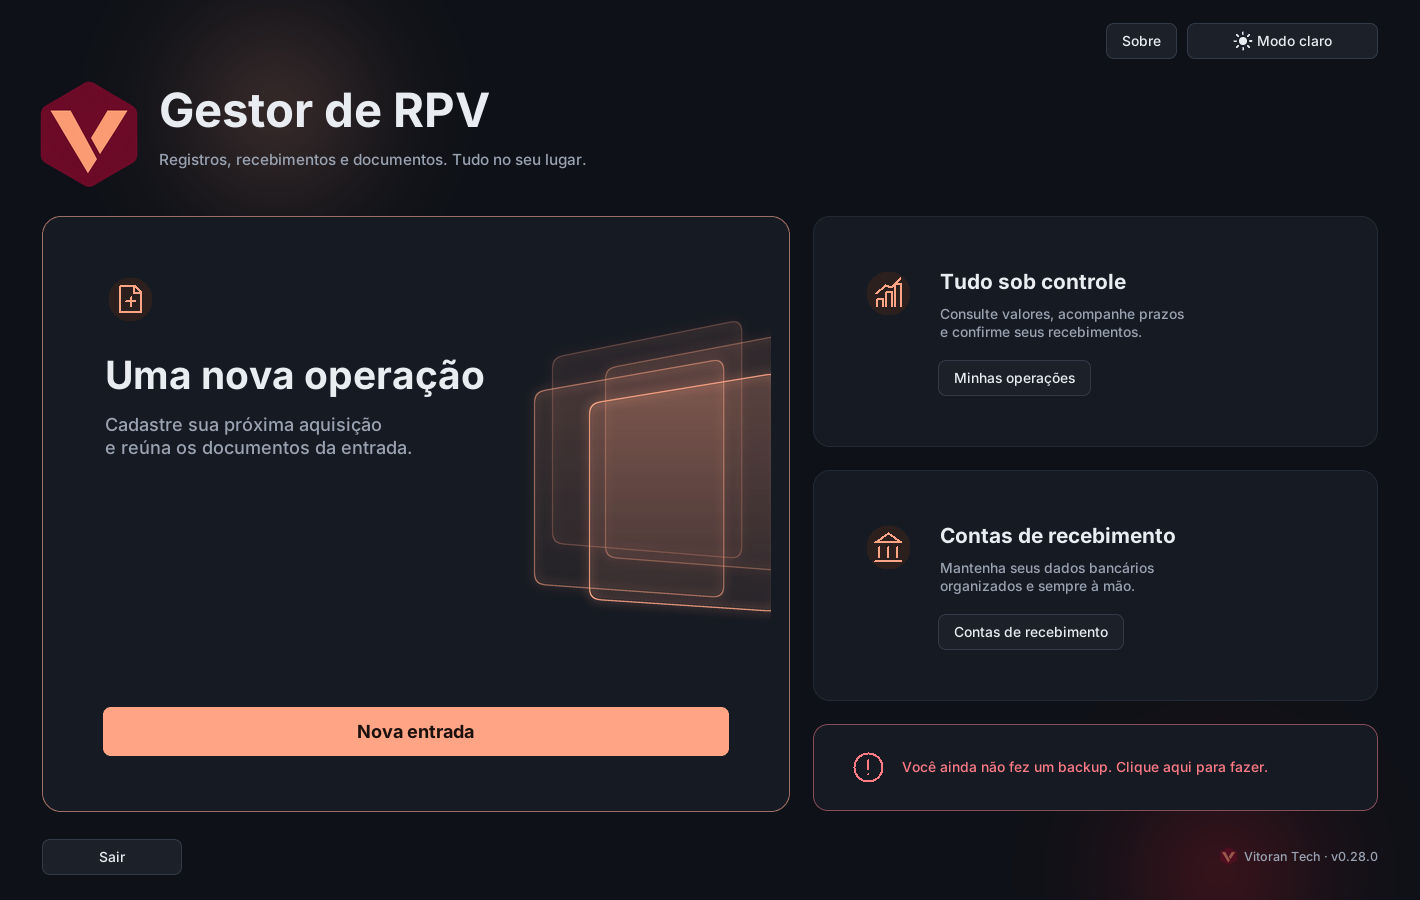
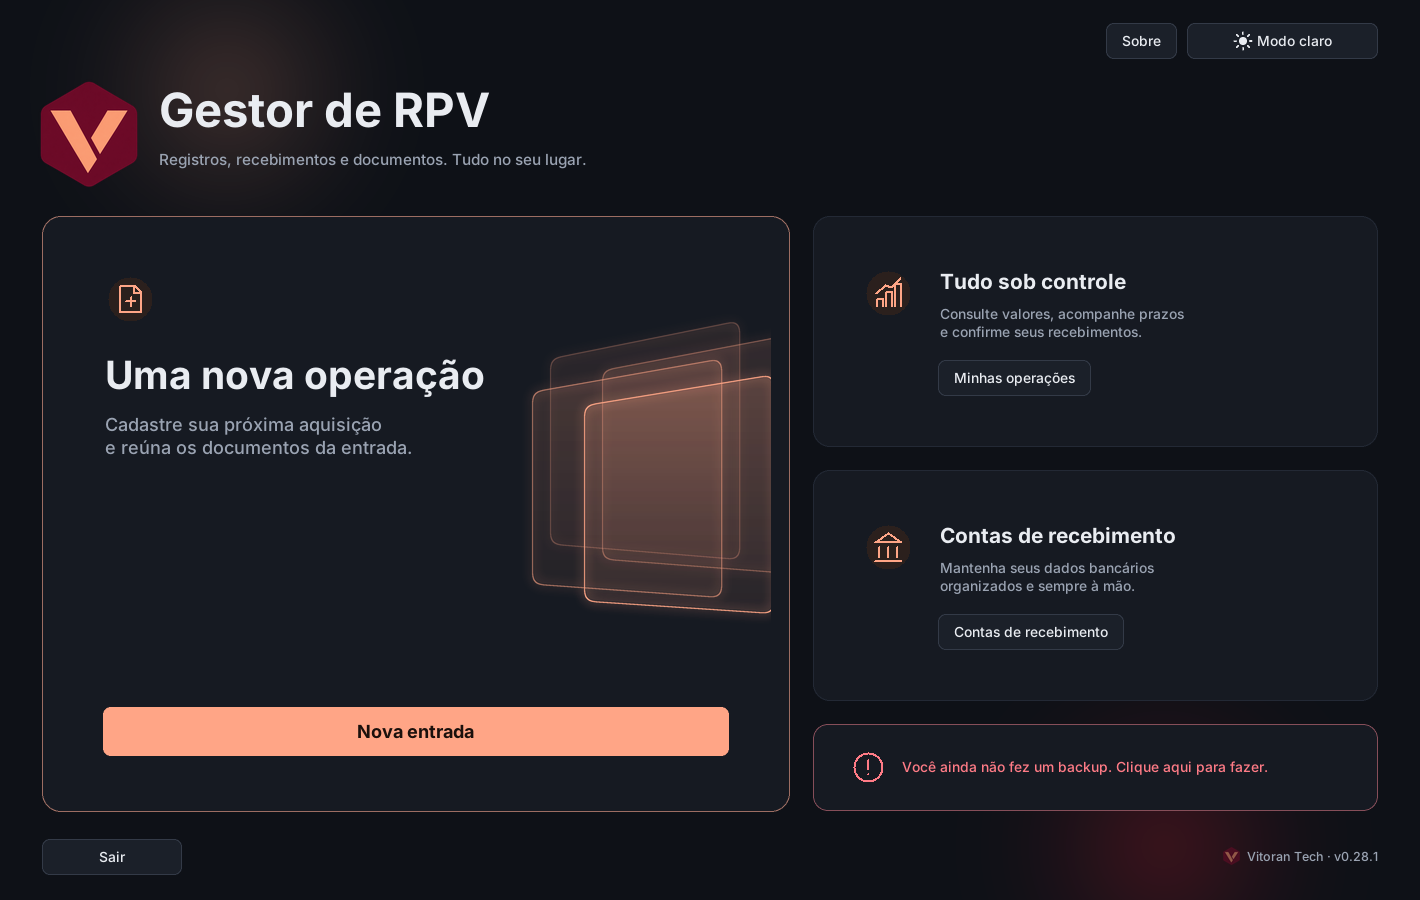
Tela inicial com tamanho máximo centralizado e animação parada após a entrada (0.28.1)
Claude-Session: https://claude.ai/code/session_01QEgXim2PKycGfoVAPPJLFG

Changed region(s): [[0.4028, 0.3733, 0.5268, 0.6844], [0.3718, 0.4044, 0.4648, 0.6222], [0.8676, 0.9333, 0.9606, 0.9644]]

diff --git a/arte_inicio.py b/arte_inicio.py
@@ -4,11 +4,10 @@ As placas e as luzes são imagens PNG com transparência (recursos/vidro-*.png e
 scripts/gerar_arte_vidro.py). O Canvas do Tk sobrepõe essas imagens respeitando o canal alfa, então a
 translucidez é real, sem depender de transparência da janela.
 
-Ao abrir, as placas entram em sequência (cerca de 4 s); depois flutuam devagar, poucos pixels, sem parar.
-As luzes de fundo derivam em ciclos longos. Um único relógio move tudo e fica em pausa quando a tela
-inicial não está visível; trocar de tema só troca as imagens, sem reiniciar o movimento.
+Ao abrir, as placas entram em sequência (cerca de 4 s) e depois ficam paradas. As luzes de fundo são fixas.
+O relógio da entrada fica em pausa quando a tela inicial não está visível e para de vez quando a entrada
+termina; trocar de tema só troca as imagens, sem reiniciar a animação.
 """
-import math
 import time
 import tkinter as tk
 
@@ -23,18 +22,10 @@ INTERVALO = 0.38      # Segundos entre o início de uma placa e o da seguinte.
 DURACAO = 2.1         # Segundos de entrada de cada placa.
 ATRASO_BRILHO = 0.5   # A borda acende depois que o vidro já começou a aparecer.
 DESLOCAMENTO = (60, 18)  # Pixels de onde cada placa parte, à direita e abaixo da posição final.
-# Flutuação depois da entrada: amplitude (x, y) em pixels e período (x, y) em segundos, por placa.
-FLUTUACAO = (((3, 4), (9.0, 11.0)), ((4, 3), (10.5, 8.0)), ((3, 5), (8.5, 12.5)), ((5, 4), (11.5, 9.5)))
 LUZ = 520             # Lado de cada mancha de luz.
-# Luzes de fundo: centro em frações da tela, amplitude da deriva em pixels e período em segundos.
-LUZES = (((0.16, 0.10), (50, 30), (37.0, 29.0)), ((0.82, 0.94), (60, 34), (43.0, 33.0)))
-# Ritmo de cada animação, em milissegundos: a entrada das placas é fluida; a flutuação e a deriva das luzes,
-# lentíssimas, avançam menos de 1 px por quadro e não precisam de mais quadros. Luzes grandes custam caro
-# para redesenhar, então só mudam de lugar 5 vezes por segundo.
-QUADRO_ENTRADA_MS = 40
-QUADRO_FLUTUACAO_MS = 80
-QUADRO_LUZES_MS = 200
-QUADRO_MS = 40        # Batida do relógio: cada animação decide se é a sua vez.
+# Luzes de fundo: centro de cada mancha, em frações da tela.
+LUZES = ((0.16, 0.10), (0.82, 0.94))
+QUADRO_MS = 40        # Um quadro a cada 40 ms durante a entrada.
 PAUSA_MS = 400        # Fora da tela inicial, só confere de vez em quando se ela voltou.
 
 
@@ -80,13 +71,8 @@ def imagens_luz(raiz, modo):
     return cache[modo]
 
 
-def flutuacao(indice, segundos):
-    (ax, ay), (px, py) = FLUTUACAO[indice]
-    return ax * math.sin(2 * math.pi * segundos / px), ay * math.sin(2 * math.pi * segundos / py + 1.3)
-
-
 class ArteVidro(tk.Canvas):
-    """Placas de vidro em leque: entrada em sequência e, depois, flutuação contínua e mínima."""
+    """Placas de vidro em leque: entrada em sequência e, depois, paradas na posição final."""
 
     def __init__(self, pai):
         super().__init__(pai, highlightthickness=0, bd=0)
@@ -104,9 +90,6 @@ class ArteVidro(tk.Canvas):
         self.aplicado.clear()
         self.desenhar()
 
-    def intervalo(self):
-        return QUADRO_ENTRADA_MS if self.tempo() < duracao_total() else QUADRO_FLUTUACAO_MS
-
     def animar(self):
         """Começa a entrada das placas; chamar de novo não reinicia."""
         if self.inicio is None:
@@ -115,12 +98,14 @@ class ArteVidro(tk.Canvas):
     def tempo(self):
         return 0.0 if self.inicio is None else time.monotonic() - self.inicio
 
+    def terminou(self):
+        return self.inicio is not None and self.tempo() >= duracao_total()
+
     def desenhar(self):
         largura, altura = self.winfo_width(), self.winfo_height()
         if largura < 20 or altura < 20:
             return
         agora = self.tempo()
-        depois = max(0.0, agora - duracao_total())
         conjunto = (CELULA[0] + max(x for x, _ in POSICOES), CELULA[1] + max(y for _, y in POSICOES))
         base_x = max(0, (largura - conjunto[0]) // 2)
         base_y = (altura - conjunto[1]) // 2
@@ -129,9 +114,8 @@ class ArteVidro(tk.Canvas):
             acender = suavizar((agora - indice * INTERVALO - ATRASO_BRILHO) / DURACAO)
             # Placas do fundo se deslocam menos, reforçando a sensação de profundidade.
             profundidade = 0.55 + 0.45 * indice / (len(POSICOES) - 1)
-            ox, oy = flutuacao(indice, depois)
-            x = base_x + fx + DESLOCAMENTO[0] * profundidade * (1 - entrada) + ox
-            y = base_y + fy + DESLOCAMENTO[1] * profundidade * (1 - entrada) + oy
+            x = base_x + fx + DESLOCAMENTO[0] * profundidade * (1 - entrada)
+            y = base_y + fy + DESLOCAMENTO[1] * profundidade * (1 - entrada)
             for item, camada, progresso in ((vidro, 0, entrada), (brilho, 1, acender)):
                 coluna = nivel(progresso)
                 estado = (round(x), round(y), coluna)
@@ -146,18 +130,14 @@ class ArteVidro(tk.Canvas):
 
 
 class LuzesFundo:
-    """Manchas de luz translúcidas no Canvas da tela inicial, abaixo de todo o resto, em deriva lenta."""
+    """Manchas de luz translúcidas e fixas no Canvas da tela inicial, abaixo de todo o resto."""
 
     def __init__(self, canvas):
         self.canvas = canvas
-        self.inicio = time.monotonic()
         self.itens = [canvas.create_image(0, 0, anchor='center', tags='luz') for _ in LUZES]
         canvas.tag_lower('luz')
-        self.aplicado = {}
+        self.area = None
         self.atualizar_tema()
-
-    def intervalo(self):
-        return QUADRO_LUZES_MS
 
     def atualizar_tema(self):
         imagens = imagens_luz(self.canvas._root(), modo_atual())
@@ -165,26 +145,21 @@ class LuzesFundo:
             self.canvas.itemconfigure(item, image=imagem)
         self.desenhar()
 
-    def desenhar(self):
-        largura, altura = self.canvas.winfo_width(), self.canvas.winfo_height()
-        segundos = time.monotonic() - self.inicio
-        for item, ((fx, fy), (ax, ay), (px, py)) in zip(self.itens, LUZES):
-            x = fx * largura + ax * math.sin(2 * math.pi * segundos / px)
-            y = fy * altura + ay * math.sin(2 * math.pi * segundos / py + 0.7)
-            posicao = (round(x), round(y))
-            if self.aplicado.get(item) != posicao:
-                self.aplicado[item] = posicao
-                self.canvas.coords(item, *posicao)
+    def desenhar(self, area=None):
+        """Posiciona as luzes na área (x, y, largura, altura) da composição; sem área, no Canvas inteiro."""
+        self.area = area or self.area or (0, 0, self.canvas.winfo_width(), self.canvas.winfo_height())
+        x, y, largura, altura = self.area
+        for item, (fx, fy) in zip(self.itens, LUZES):
+            self.canvas.coords(item, round(x + fx * largura), round(y + fy * altura))
 
 
 class Relogio:
-    """Um único laço de animação para a tela inicial, em pausa quando ela não está à vista."""
+    """Laço da animação de entrada: em pausa fora da tela inicial e encerrado quando tudo termina."""
 
     def __init__(self, canvas, *animados):
         self.canvas = canvas
         self.animados = animados
         self.agendamento = None
-        self.proximos = {}  # Quando cada animação deve desenhar de novo (relógio monotônico).
         canvas.bind('<Destroy>', lambda e: self.parar() if e.widget is canvas else None, add='+')
 
     def iniciar(self):
@@ -202,10 +177,9 @@ class Relogio:
             return
         visivel = self.canvas.winfo_viewable() and self.canvas.winfo_toplevel().state() != 'iconic'
         if visivel:
-            agora = time.monotonic()
             for animado in self.animados:
-                if agora >= self.proximos.get(id(animado), 0):
-                    animado.desenhar()
-                    intervalo = getattr(animado, 'intervalo', lambda: QUADRO_MS)()
-                    self.proximos[id(animado)] = agora + intervalo / 1000 - 0.005
+                animado.desenhar()
+            # Depois do último quadro, tudo fica parado: o laço não volta a rodar.
+            if all(getattr(animado, 'terminou', lambda: False)() for animado in self.animados):
+                return
         self.agendamento = self.canvas.after(QUADRO_MS if visivel else PAUSA_MS, self.quadro)

diff --git a/test_interface.py b/test_interface.py
@@ -1315,6 +1315,16 @@ class TestInterface(unittest.TestCase):
         self.assertTrue(self.programa.layout_largo_inicio)
         largura_util = tela.winfo_width() - 2 * 40
         self.assertAlmostEqual(entrada.winfo_width() + 2 * 18, largura_util * 0.56, delta=8)
+        # Em telas maiores, a composição não estica: mantém o tamanho e fica centralizada.
+        medidas = []
+        for geometria in ('1700x1100', '2000x1200'):
+            self.root.geometry(geometria)
+            self.root.update()
+            self.root.update()
+            medidas.append((entrada.winfo_width(), entrada.winfo_height(),
+                            entrada.winfo_x() - (tela.winfo_width() - 1420) // 2,
+                            entrada.winfo_y() - (tela.winfo_height() - 900) // 2))
+        self.assertEqual(medidas[0], medidas[1])
         self.assertLess(entrada.winfo_x() + entrada.winfo_width(), historico.winfo_x())
         self.assertEqual(historico.winfo_x(), contas.winfo_x())
         self.assertLess(historico.winfo_y() + historico.winfo_height(), contas.winfo_y())
@@ -1489,7 +1499,7 @@ class TestInterface(unittest.TestCase):
         self.assertEqual((tela.winfo_width(), tela.winfo_height()), (600, 450))
         tela.destroy()
 
-    def test_arte_entra_em_quatro_segundos_e_depois_flutua_sem_parar(self):
+    def test_arte_entra_em_quatro_segundos_e_depois_fica_parada(self):
         import time
         import arte_inicio
         self.root.geometry('1600x900')
@@ -1509,7 +1519,7 @@ class TestInterface(unittest.TestCase):
         arte.desenhar()
         estados = [arte.itemcget(vidro, 'state') for _brilho, vidro in arte.itens]
         self.assertEqual((estados[0], estados[-1]), ('normal', 'hidden'))
-        # Depois da entrada, todas ficam no nível máximo e seguem se movendo, poucos pixels.
+        # Depois da entrada, todas ficam no nível máximo e paradas.
         arte.inicio = time.monotonic() - arte_inicio.duracao_total() - 2.0
         arte.desenhar()
         finais = {arte.itemcget(item, 'image') for par in arte.itens for item in par}
@@ -1519,10 +1529,13 @@ class TestInterface(unittest.TestCase):
         arte.inicio -= 2.5
         arte.desenhar()
         depois = [arte.coords(vidro) for _brilho, vidro in arte.itens]
-        self.assertNotEqual(antes, depois)
-        self.assertTrue(all(abs(a - b) <= 12 for p, q in zip(antes, depois) for a, b in zip(p, q)))
-        # O relógio continua ativo enquanto a tela inicial está à vista.
-        self.assertIsNotNone(self.programa.relogio_inicio.agendamento)
+        self.assertEqual(antes, depois)
+        # Terminada a entrada, o relógio encerra o laço.
+        self.assertTrue(arte.terminou())
+        relogio = self.programa.relogio_inicio
+        relogio.parar()
+        relogio.quadro()
+        self.assertIsNone(relogio.agendamento)
         # Trocar de tema só troca as imagens: não reinicia a animação.
         inicio = arte.inicio
         self.programa.alternar_tema()
@@ -1554,15 +1567,13 @@ class TestInterface(unittest.TestCase):
         relogio.quadro()
         self.assertEqual(len(desenhos), 2)
 
-    def test_luzes_de_fundo_ficam_atras_de_tudo_e_derivam(self):
-        import time
+    def test_luzes_de_fundo_ficam_atras_de_tudo_e_paradas(self):
         tela = self.programa.inicio
         luzes = self.programa.luzes_inicio
         self.assertEqual(tela.find_all()[:len(luzes.itens)], tuple(luzes.itens))
         antes = [tela.coords(i) for i in luzes.itens]
-        luzes.inicio = time.monotonic() - 10
         luzes.desenhar()
-        self.assertNotEqual([tela.coords(i) for i in luzes.itens], antes)
+        self.assertEqual([tela.coords(i) for i in luzes.itens], antes)
 
     def test_arte_de_vidro_comeca_sozinha_ao_abrir(self):
         arte = self.programa.arte_inicio

diff --git a/tela_inicio.py b/tela_inicio.py
@@ -14,6 +14,9 @@ from tema import cores, modo_atual, PALETAS
 from versao import VERSAO
 from visual import Icone, _png_arredondado, px
 
+# Tamanho máximo da composição da tela inicial (em pixels a 100% de escala), nas proporções de referência.
+COMPOSICAO = (1420, 900)
+
 ATALHOS = (
     ('entrada', 'Uma nova operação', 'Cadastre sua próxima aquisição\ne reúna os documentos da entrada.', 'Nova entrada'),
     ('historico', 'Tudo sob controle', 'Consulte valores, acompanhe prazos\ne confirme seus recebimentos.', 'Minhas operações'),
@@ -144,7 +147,7 @@ class InicioMixin:
             ('sobre', self.botao_sobre), ('tema', self.botao_alternar_tema), ('sair', self.botao_sair),
             *((chave, peca) for chave, (peca, _tipo) in self.pecas_inicio.items()))}
         self.desenhos_inicio = {chave: tela.create_image(0, 0, anchor='nw') for chave in self.pecas_inicio}
-        self.relogio_inicio = Relogio(tela, self.luzes_inicio, self.arte_inicio)
+        self.relogio_inicio = Relogio(tela, self.arte_inicio)
         tela.bind('<Configure>', lambda _: self.organizar_inicio())
         self.tematizar_inicio()
 
@@ -184,6 +187,11 @@ class InicioMixin:
         if largura < 50 or altura < 50:
             return
         p = lambda v: px(tela, v)
+        # A composição tem tamanho máximo e fica centralizada: em telas grandes, sobra fundo ao redor,
+        # em vez de esticar os cartões. Daqui para baixo, largura e altura são as da composição.
+        janela_largura, janela_altura = largura, altura
+        largura, altura = min(largura, p(COMPOSICAO[0])), min(altura, p(COMPOSICAO[1]))
+        ox, oy = (janela_largura - largura) // 2, (janela_altura - altura) // 2
         margem, espaco = p(40), p(22)
         tela.coords(self.janelas_inicio['tema'], largura - margem, p(22))
         tela.itemconfigure(self.janelas_inicio['tema'], anchor='ne')
@@ -259,6 +267,15 @@ class InicioMixin:
                   if chave in self.medidas_inicio}
         for chave in [k for k in self.superficies_inicio if k[1:] not in em_uso]:
             del self.superficies_inicio[chave]
+        # Desloca tudo o que foi posicionado para a composição centralizada.
+        visiveis = [chave for chave in self.pecas_inicio if chave in retangulos]
+        itens = [self.janelas_inicio[nome] for nome in ('sobre', 'tema', 'sair', *visiveis)]
+        itens += [self.desenhos_inicio[chave] for chave in visiveis]
+        itens += [self.emblema_inicio, self.titulo_inicio, self.subtitulo_inicio,
+                  self.assinatura_inicio, self.marca_assinatura]
+        for item in itens:
+            tela.move(item, ox, oy)
+        self.luzes_inicio.desenhar((ox, oy, largura, altura))
         self.janela.after_idle(self.posicionar_arte)
 
     def posicionar_arte(self):

diff --git a/app.py b/app.py
@@ -62,7 +62,7 @@ class Aplicativo(NavegacaoMixin, InicioMixin, OperacoesMixin, RegistroMixin, Arq
         janela.bind('<Destroy>',self.cancelar_agendamento_backup,add='+')
         centralizar(janela, 1480, 980)
         janela.deiconify()
-        # As placas de vidro entram logo depois que a janela aparece; o relógio mantém tudo flutuando.
+        # As placas de vidro entram logo depois que a janela aparece e ficam paradas ao fim da entrada.
         self.agendamento_arte = janela.after(250,self.arte_inicio.animar)
         self.relogio_inicio.iniciar()
         # As páginas (operações, contas, gráfico) usam a mesma janela; maximizada, a tabela tem o espaço de antes.

diff --git a/versao.py b/versao.py
@@ -1,2 +1,2 @@
 """Versão da entrega publicada no GitHub com a tag correspondente."""
-VERSAO = '0.28.0'
+VERSAO = '0.28.1'

diff --git a/README.md b/README.md
@@ -1,4 +1,4 @@
-# Gestor de RPV — 0.28.0
+# Gestor de RPV — 0.28.1
 
 Aplicativo pessoal para Windows, em Python com Tkinter e SQLite. Cada computador
 mantém seus próprios dados, sem servidor ou sincronização. Não exige pacotes extras.
@@ -14,7 +14,7 @@ python app.py
 
 Mantenha todos os arquivos `.py` e a pasta `recursos` juntos. Essa pasta contém o ícone da Vitoran Tech.
 A tela inicial tem os botões **Nova entrada**, **Minhas operações**,
-**Contas de recebimento** e **Sair**. A assinatura **Vitoran Tech · v0.28.0**, acompanhada do emblema com 50% de opacidade,
+**Contas de recebimento** e **Sair**. A assinatura **Vitoran Tech · v0.28.1**, acompanhada do emblema com 50% de opacidade,
 aparece no canto inferior direito.
 O número é lido da versão do programa e acompanha cada atualização.
 O programa funciona em uma única janela, que abre maximizada. **Minhas operações**, **Contas de
@@ -31,16 +31,15 @@ Títulos ficam em tons neutros; a cor da marca é reservada às ações principa
 Recebimentos e lucro realizado continuam em verde. Todos os pares de texto e fundo atendem ao contraste WCAG AA. O botão **Modo escuro / Modo claro**, com ícones de lua e sol, alterna a
 aparência; o menu **Exibir** do histórico oferece as mesmas opções.
 
-- Tela inicial em tela cheia: emblema Vitoran Tech à esquerda do título, cartão **Uma nova operação**
+- Tela inicial com composição de até 1420 × 900, centralizada na janela: emblema Vitoran Tech à esquerda do título, cartão **Uma nova operação**
   grande à esquerda, **Tudo sob controle** e **Contas de recebimento** empilhados à direita e o aviso de
   atrasadas ou de backup logo abaixo. Em janelas estreitas, os cartões menores descem para baixo do principal.
   Uma versão discreta do emblema, com 50% de opacidade, acompanha a assinatura no rodapé.
 - Arte de placas de vidro translúcidas no cartão **Uma nova operação**, no espaço livre à direita dos textos.
   Ao abrir o programa, as placas surgem em sequência durante cerca de 4 segundos, com leve deslocamento e
-  bordas que acendem em pêssego (carmim no tema claro); depois continuam flutuando devagar, sem parar.
-  Atrás de toda a tela inicial, duas luzes translúcidas derivam lentamente nas cores do tema.
-  Trocar de tema só troca as cores, sem reiniciar o movimento. A animação pausa fora da tela inicial
-  e com a janela minimizada.
+  bordas que acendem em pêssego (carmim no tema claro); depois ficam paradas.
+  Atrás da tela inicial, duas luzes translúcidas e fixas nas cores do tema.
+  Trocar de tema só troca as cores, sem reiniciar a animação.
   As imagens ficam em `recursos/vidro-*.png` e `recursos/luz-*.png`, geradas por
   `scripts/gerar_arte_vidro.py` (Pillow, só no desenvolvimento). Em janelas muito estreitas, as placas são ocultadas.
 - Emblema Vitoran Tech com V em pêssego sobre vinho, aplicado às janelas e ao executável.

diff --git a/CHANGELOG.md b/CHANGELOG.md
@@ -1,5 +1,12 @@
 # Histórico de versões
 
+## 0.28.1
+
+- Tela inicial com tamanho máximo de 1420 × 900 (na escala de 100%), centralizada: em telas grandes os
+  cartões não esticam mais, mantendo as proporções da referência, e o fundo sobra ao redor.
+- Placas de vidro e luzes de fundo ficam paradas depois da animação de entrada (cerca de 4 s); o laço
+  de animação termina sozinho, sem uso de CPU depois disso.
+
 ## 0.28.0
 
 - Tela inicial reorganizada para ocupar a tela cheia sem espaços vazios: cabeçalho com o emblema à
